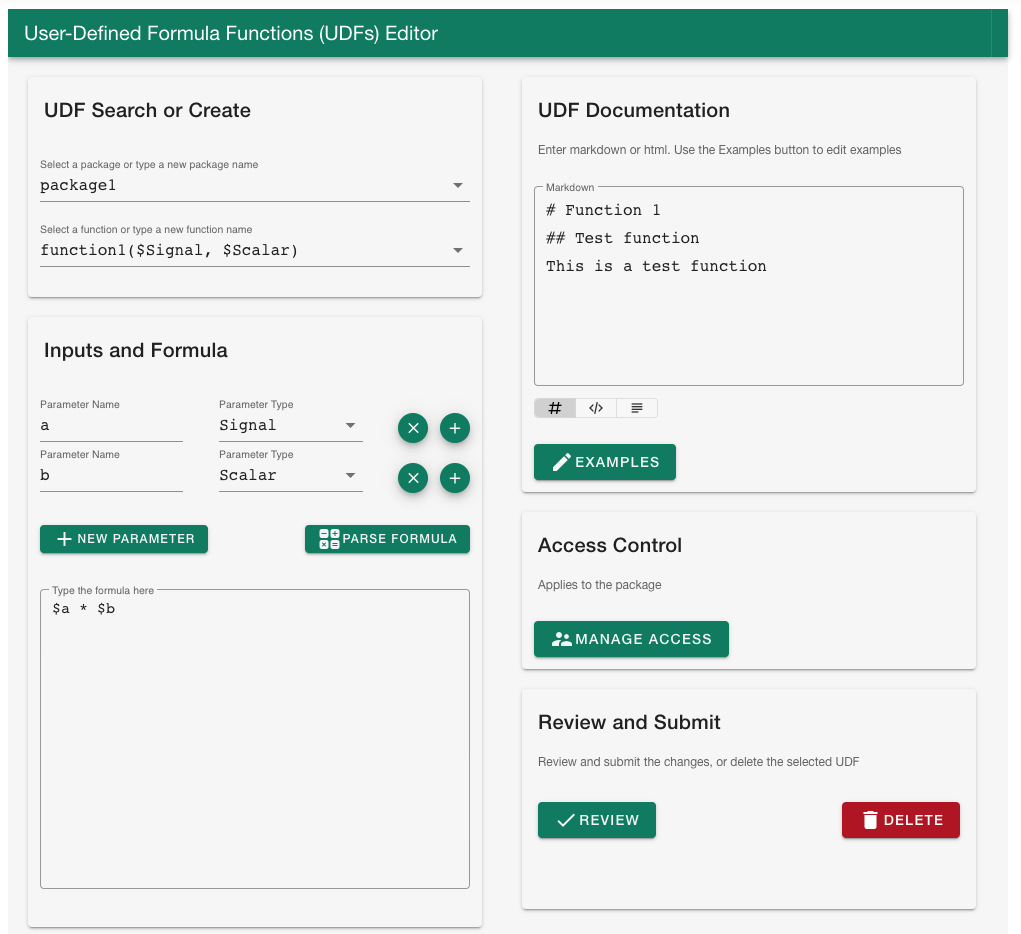
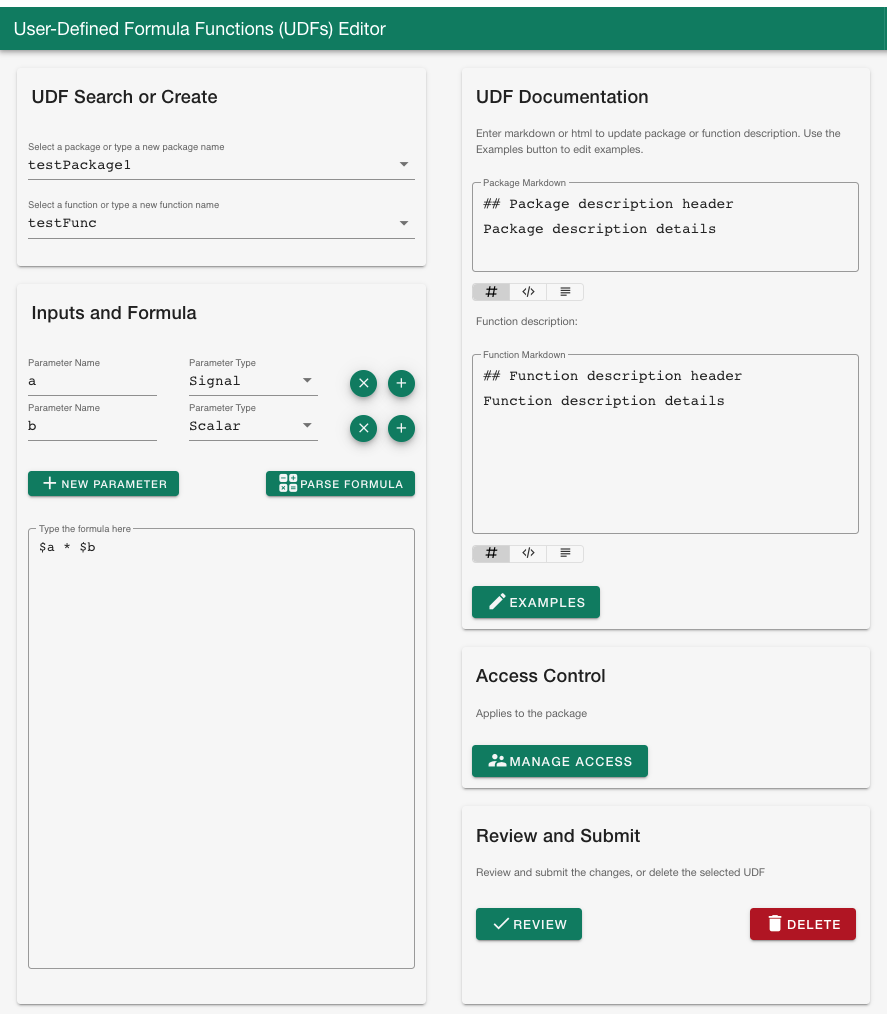
Updated the doc to include the package description

diff --git a/docs/user_guide.html b/docs/user_guide.html
@@ -171,7 +171,8 @@ parameters is set to scalar as default and should be changed manually if needed.
 <section id="step-3-udf-documentation">
 <h3>Step 3 - UDF Documentation<a class="headerlink" href="#step-3-udf-documentation" title="Permalink to this headline"></a></h3>
 <ul class="simple">
-<li><p>You may enter a description of the formula function in the provided box. The markdown box supports markdown
+<li><p>You may enter a description of the package and the formula function in the provided boxes.
+The markdown box supports markdown
 language for description and automatically updates the html box. You may also select the html
 tab from the bottom of the description box and directly edit the html box,
 which will in turn update the markdown box. You may also view the final processed html by clicking

diff --git a/docs_src/source/user_guide.md b/docs_src/source/user_guide.md
@@ -79,7 +79,8 @@ it is error-prone, and you should verify the validity of the extracted parameter
 parameters is set to scalar as default and should be changed manually if needed.
 
 ### Step 3 - UDF Documentation
-- You may enter a description of the formula function in the provided box. The markdown box supports markdown
+- You may enter a description of the package and the formula function in the provided boxes. 
+The markdown box supports markdown
 language for description and automatically updates the html box. You may also select the html
 tab from the bottom of the description box and directly edit the html box,
 which will in turn update the markdown box. You may also view the final processed html by clicking 
